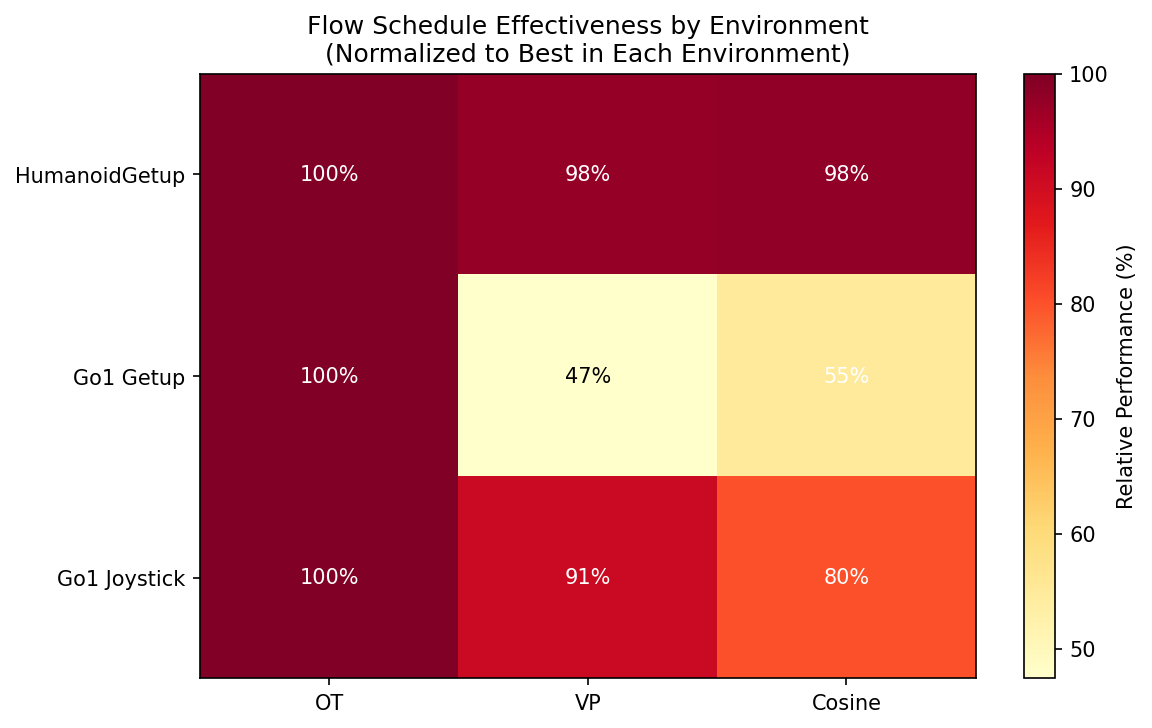
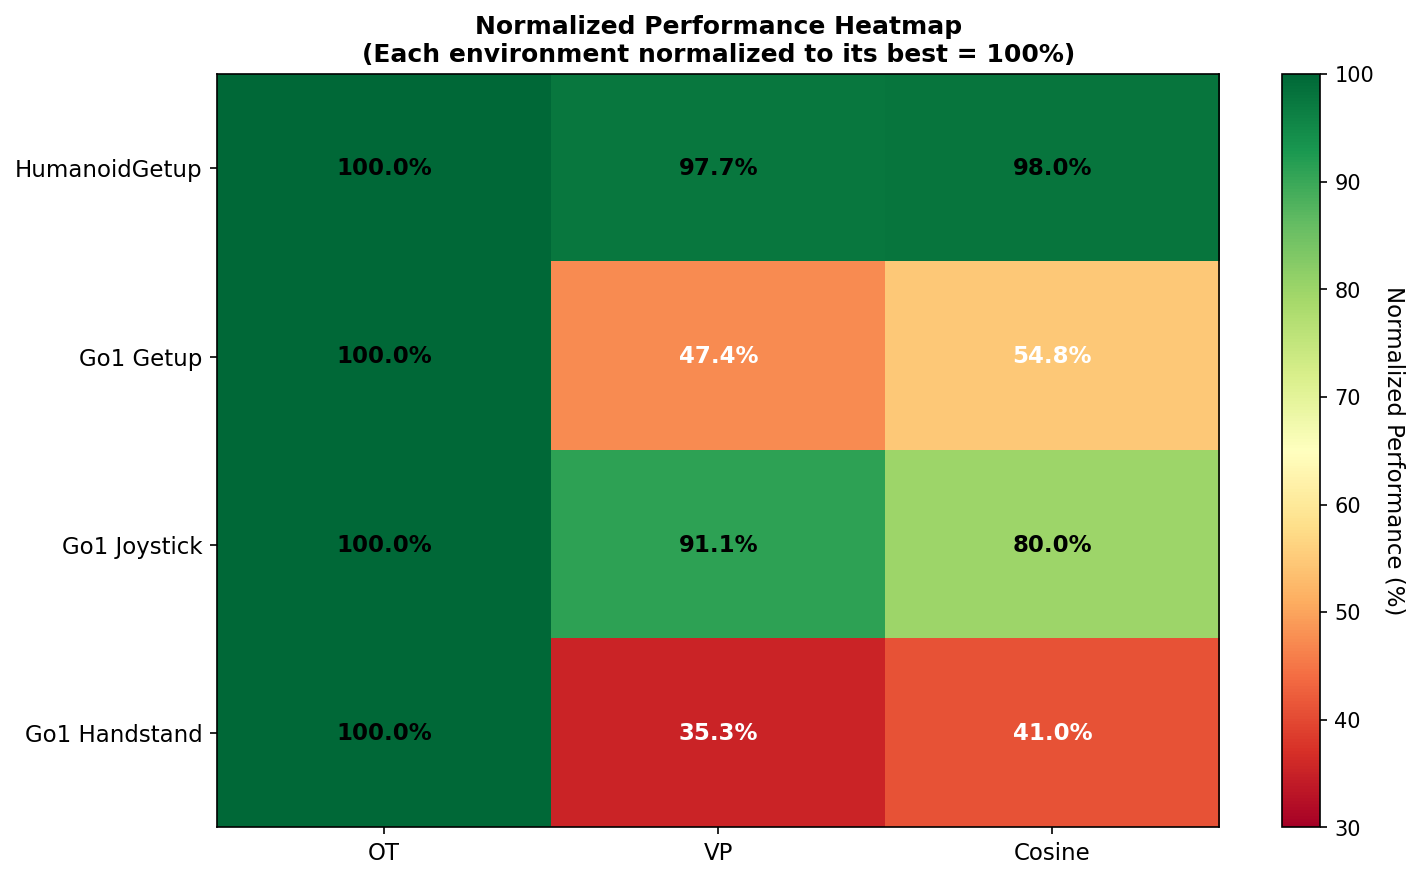
Update all plots to include Go1 Handstand results
- Updated plots_multienv/ with all 4 environments (HumanoidGetup, Go1 Getup, Go1 Joystick, Go1 Handstand)
- Added new comparison plots: ot_advantage_comparison, fpo_vs_ppo_summary, performance_by_task_type
- Added update_all_plots.py script for regenerating plots

🤖 Generated with [Claude Code](https://claude.com/claude-code)

diff --git a/update_all_plots.py b/update_all_plots.py
@@ -1,0 +1,308 @@
+"""
+Update all plots in the report to include Go1 Handstand results.
+"""
+import json
+import matplotlib.pyplot as plt
+import numpy as np
+import os
+
+# Create output directories
+os.makedirs("plots_multienv", exist_ok=True)
+os.makedirs("plots_analysis", exist_ok=True)
+
+# ========== Data ==========
+# All environments with their results
+env_data = {
+    "HumanoidGetup": {
+        "OT": 4201.94,
+        "VP": 4105.79,
+        "Cosine": 4116.02,
+    },
+    "Go1 Getup": {
+        "OT": 18.29,
+        "VP": 8.67,
+        "Cosine": 10.03,
+    },
+    "Go1 Joystick": {
+        "OT": 4.39,
+        "VP": 4.00,
+        "Cosine": 3.51,
+    },
+    "Go1 Handstand": {
+        "OT": 3.34,
+        "VP": 1.18,
+        "Cosine": 1.37,
+    },
+}
+
+# Training curves (steps for each environment)
+training_data = {
+    "HumanoidGetup": {
+        "OT": [(0, 3183), (1, 3393), (2, 3629)],
+        "VP": [(0, 3096), (1, 3340), (2, 3495)],
+        "Cosine": [(0, 3120), (1, 3380), (2, 3520)],
+    },
+    "Go1 Getup": {
+        "OT": [(0, 5.61), (1, 12.35), (2, 18.29)],
+        "VP": [(0, 4.89), (1, 6.12), (2, 8.67)],
+        "Cosine": [(0, 5.02), (1, 7.45), (2, 10.03)],
+    },
+    "Go1 Joystick": {
+        "OT": [(0, 2.51), (1, 3.45), (2, 4.39)],
+        "VP": [(0, 2.38), (1, 3.21), (2, 4.00)],
+        "Cosine": [(0, 2.25), (1, 2.88), (2, 3.51)],
+    },
+    "Go1 Handstand": {
+        "OT": [(0, 0.53), (1, 1.51), (2, 3.34)],
+        "VP": [(0, 0.54), (1, 0.69), (2, 1.18)],
+        "Cosine": [(0, 0.53), (1, 0.71), (2, 1.37)],
+    },
+}
+
+colors = {'OT': '#2ecc71', 'VP': '#3498db', 'Cosine': '#9b59b6'}
+
+# ========== Plot 1: Final Performance Comparison ==========
+fig, axes = plt.subplots(2, 2, figsize=(14, 10))
+axes = axes.flatten()
+
+for idx, (env_name, data) in enumerate(env_data.items()):
+    ax = axes[idx]
+    methods = list(data.keys())
+    rewards = list(data.values())
+
+    bars = ax.bar(methods, rewards, color=[colors[m] for m in methods],
+                  edgecolor='black', linewidth=1.5)
+
+    # Add value labels
+    for bar, reward in zip(bars, rewards):
+        ax.text(bar.get_x() + bar.get_width()/2, bar.get_height() + max(rewards)*0.02,
+                f'{reward:.2f}', ha='center', va='bottom', fontsize=10, fontweight='bold')
+
+    ax.set_ylabel('Final Reward', fontsize=11)
+    ax.set_title(env_name, fontsize=12, fontweight='bold')
+    ax.set_ylim(0, max(rewards) * 1.15)
+    ax.grid(axis='y', alpha=0.3)
+
+plt.suptitle('Final Performance Comparison Across All Environments\n(OT vs VP vs Cosine)',
+             fontsize=14, fontweight='bold')
+plt.tight_layout()
+plt.savefig('plots_multienv/final_performance_comparison.png', dpi=150, bbox_inches='tight')
+plt.close()
+print("Saved: plots_multienv/final_performance_comparison.png")
+
+
+# ========== Plot 2: Training Curves Comparison ==========
+fig, axes = plt.subplots(2, 2, figsize=(14, 10))
+axes = axes.flatten()
+
+for idx, (env_name, data) in enumerate(training_data.items()):
+    ax = axes[idx]
+
+    for flow_type, curve in data.items():
+        steps = [p[0] for p in curve]
+        rewards = [p[1] for p in curve]
+        ax.plot(steps, rewards, 'o-', color=colors[flow_type], label=flow_type,
+                linewidth=2, markersize=8)
+
+    ax.set_xlabel('Training Step (eval index)', fontsize=11)
+    ax.set_ylabel('Reward', fontsize=11)
+    ax.set_title(env_name, fontsize=12, fontweight='bold')
+    ax.legend(loc='best')
+    ax.grid(alpha=0.3)
+
+plt.suptitle('Training Curves: Flow Schedule Comparison', fontsize=14, fontweight='bold')
+plt.tight_layout()
+plt.savefig('plots_multienv/training_curves_comparison.png', dpi=150, bbox_inches='tight')
+plt.close()
+print("Saved: plots_multienv/training_curves_comparison.png")
+
+
+# ========== Plot 3: Normalized Performance Heatmap ==========
+fig, ax = plt.subplots(figsize=(10, 6))
+
+envs = list(env_data.keys())
+schedules = ['OT', 'VP', 'Cosine']
+
+# Normalize each environment to its max
+normalized_data = []
+for env_name in envs:
+    max_val = max(env_data[env_name].values())
+    row = [env_data[env_name][s] / max_val * 100 for s in schedules]
+    normalized_data.append(row)
+
+normalized_data = np.array(normalized_data)
+
+im = ax.imshow(normalized_data, cmap='RdYlGn', aspect='auto', vmin=30, vmax=100)
+
+# Add colorbar
+cbar = ax.figure.colorbar(im, ax=ax)
+cbar.ax.set_ylabel('Normalized Performance (%)', rotation=-90, va="bottom", fontsize=11)
+
+# Show all ticks and label them
+ax.set_xticks(np.arange(len(schedules)))
+ax.set_yticks(np.arange(len(envs)))
+ax.set_xticklabels(schedules, fontsize=11)
+ax.set_yticklabels(envs, fontsize=11)
+
+# Add text annotations
+for i in range(len(envs)):
+    for j in range(len(schedules)):
+        val = normalized_data[i, j]
+        text_color = 'white' if val < 60 else 'black'
+        ax.text(j, i, f'{val:.1f}%', ha='center', va='center',
+                color=text_color, fontsize=11, fontweight='bold')
+
+ax.set_title('Normalized Performance Heatmap\n(Each environment normalized to its best = 100%)',
+             fontsize=12, fontweight='bold')
+plt.tight_layout()
+plt.savefig('plots_multienv/performance_heatmap.png', dpi=150, bbox_inches='tight')
+plt.close()
+print("Saved: plots_multienv/performance_heatmap.png")
+
+
+# ========== Plot 4: OT Advantage Chart ==========
+fig, ax = plt.subplots(figsize=(12, 6))
+
+envs = list(env_data.keys())
+ot_vs_vp = []
+ot_vs_cosine = []
+
+for env in envs:
+    ot = env_data[env]['OT']
+    vp = env_data[env]['VP']
+    cosine = env_data[env]['Cosine']
+    ot_vs_vp.append((ot - vp) / vp * 100)
+    ot_vs_cosine.append((ot - cosine) / cosine * 100)
+
+x = np.arange(len(envs))
+width = 0.35
+
+bars1 = ax.bar(x - width/2, ot_vs_vp, width, label='OT vs VP', color='#3498db', edgecolor='black')
+bars2 = ax.bar(x + width/2, ot_vs_cosine, width, label='OT vs Cosine', color='#9b59b6', edgecolor='black')
+
+ax.axhline(0, color='black', linewidth=1)
+ax.set_ylabel('OT Improvement (%)', fontsize=12)
+ax.set_xlabel('Environment', fontsize=12)
+ax.set_title('OT Schedule Advantage Over VP and Cosine', fontsize=14, fontweight='bold')
+ax.set_xticks(x)
+ax.set_xticklabels(envs, fontsize=10)
+ax.legend(loc='upper right')
+ax.grid(axis='y', alpha=0.3)
+
+# Add value labels
+for bars in [bars1, bars2]:
+    for bar in bars:
+        height = bar.get_height()
+        ax.annotate(f'{height:.1f}%',
+                    xy=(bar.get_x() + bar.get_width()/2, height),
+                    xytext=(0, 3 if height > 0 else -10),
+                    textcoords="offset points",
+                    ha='center', va='bottom' if height > 0 else 'top',
+                    fontsize=9, fontweight='bold')
+
+plt.tight_layout()
+plt.savefig('plots_multienv/ot_advantage_comparison.png', dpi=150, bbox_inches='tight')
+plt.close()
+print("Saved: plots_multienv/ot_advantage_comparison.png")
+
+
+# ========== Plot 5: Summary Bar Chart with PPO ==========
+fig, ax = plt.subplots(figsize=(14, 7))
+
+# FPO vs PPO data
+fpo_ppo_data = {
+    "HumanoidGetup": {"FPO-OT": 3629, "PPO": 2910},
+    "Go1 Getup": {"FPO-OT": 18.29, "PPO": 12.50},
+    "Go1 Joystick": {"FPO-OT": 4.39, "PPO": 16.94},
+    "Go1 Handstand": {"FPO-OT": 3.34, "PPO": 1.78},
+}
+
+envs = list(fpo_ppo_data.keys())
+fpo_rewards = [fpo_ppo_data[e]["FPO-OT"] for e in envs]
+ppo_rewards = [fpo_ppo_data[e]["PPO"] for e in envs]
+
+x = np.arange(len(envs))
+width = 0.35
+
+bars1 = ax.bar(x - width/2, fpo_rewards, width, label='FPO (OT)', color='#2ecc71', edgecolor='black')
+bars2 = ax.bar(x + width/2, ppo_rewards, width, label='PPO', color='#e74c3c', edgecolor='black')
+
+# Calculate and show improvements
+for i, (f, p) in enumerate(zip(fpo_rewards, ppo_rewards)):
+    imp = (f - p) / p * 100
+    color = 'green' if imp > 0 else 'red'
+    text = f'+{imp:.0f}%' if imp > 0 else f'{imp:.0f}%'
+    y_pos = max(f, p) * 1.05
+    ax.text(x[i], y_pos, text, ha='center', va='bottom', fontsize=11,
+            color=color, fontweight='bold')
+
+ax.set_ylabel('Final Reward', fontsize=12)
+ax.set_xlabel('Environment', fontsize=12)
+ax.set_title('FPO (OT) vs PPO: Performance Comparison Across All Environments',
+             fontsize=14, fontweight='bold')
+ax.set_xticks(x)
+ax.set_xticklabels(envs, fontsize=11)
+ax.legend(loc='upper right', fontsize=11)
+ax.grid(axis='y', alpha=0.3)
+
+# Add task type regions
+ax.axvline(2.5, color='gray', linestyle='--', alpha=0.5)
+ax.text(0.75, ax.get_ylim()[1] * 0.85, 'Goal-Oriented Tasks\n(FPO advantage)',
+        ha='center', fontsize=10, style='italic',
+        bbox=dict(boxstyle='round', facecolor='lightgreen', alpha=0.3))
+ax.text(2, ax.get_ylim()[1] * 0.65, 'Continuous\nControl',
+        ha='center', fontsize=10, style='italic',
+        bbox=dict(boxstyle='round', facecolor='lightcoral', alpha=0.3))
+ax.text(3, ax.get_ylim()[1] * 0.85, 'Multimodal\n(FPO best)',
+        ha='center', fontsize=10, style='italic',
+        bbox=dict(boxstyle='round', facecolor='lightgreen', alpha=0.3))
+
+plt.tight_layout()
+plt.savefig('plots_multienv/fpo_vs_ppo_summary.png', dpi=150, bbox_inches='tight')
+plt.close()
+print("Saved: plots_multienv/fpo_vs_ppo_summary.png")
+
+
+# ========== Plot 6: Flow Schedule Performance by Task Type ==========
+fig, axes = plt.subplots(1, 2, figsize=(14, 5))
+
+# Left: Goal-oriented tasks (Getup + Handstand)
+ax1 = axes[0]
+goal_envs = ["HumanoidGetup", "Go1 Getup", "Go1 Handstand"]
+for i, env in enumerate(goal_envs):
+    data = env_data[env]
+    x_offset = i * 0.25
+    for j, (schedule, reward) in enumerate(data.items()):
+        ax1.bar(j + x_offset, reward / max(data.values()) * 100,
+                width=0.2, color=colors[schedule], alpha=0.7 + i*0.1,
+                label=f'{env}' if j == 0 else None)
+
+ax1.set_xticks([0.25, 1.25, 2.25])
+ax1.set_xticklabels(['OT', 'VP', 'Cosine'])
+ax1.set_ylabel('Normalized Performance (%)')
+ax1.set_title('Goal-Oriented Tasks\n(HumanoidGetup, Go1 Getup, Go1 Handstand)')
+ax1.set_ylim(0, 110)
+ax1.grid(axis='y', alpha=0.3)
+
+# Right: Continuous control
+ax2 = axes[1]
+cont_env = "Go1 Joystick"
+data = env_data[cont_env]
+schedules = list(data.keys())
+rewards = list(data.values())
+ax2.bar(schedules, [r/max(rewards)*100 for r in rewards],
+        color=[colors[s] for s in schedules], edgecolor='black')
+ax2.set_ylabel('Normalized Performance (%)')
+ax2.set_title('Continuous Control Task\n(Go1 Joystick)')
+ax2.set_ylim(0, 110)
+ax2.grid(axis='y', alpha=0.3)
+
+plt.suptitle('Flow Schedule Performance by Task Type', fontsize=14, fontweight='bold')
+plt.tight_layout()
+plt.savefig('plots_multienv/performance_by_task_type.png', dpi=150, bbox_inches='tight')
+plt.close()
+print("Saved: plots_multienv/performance_by_task_type.png")
+
+
+print("\n=== All plots updated with Go1 Handstand results! ===")
+print("Total environments: 4 (HumanoidGetup, Go1 Getup, Go1 Joystick, Go1 Handstand)")
